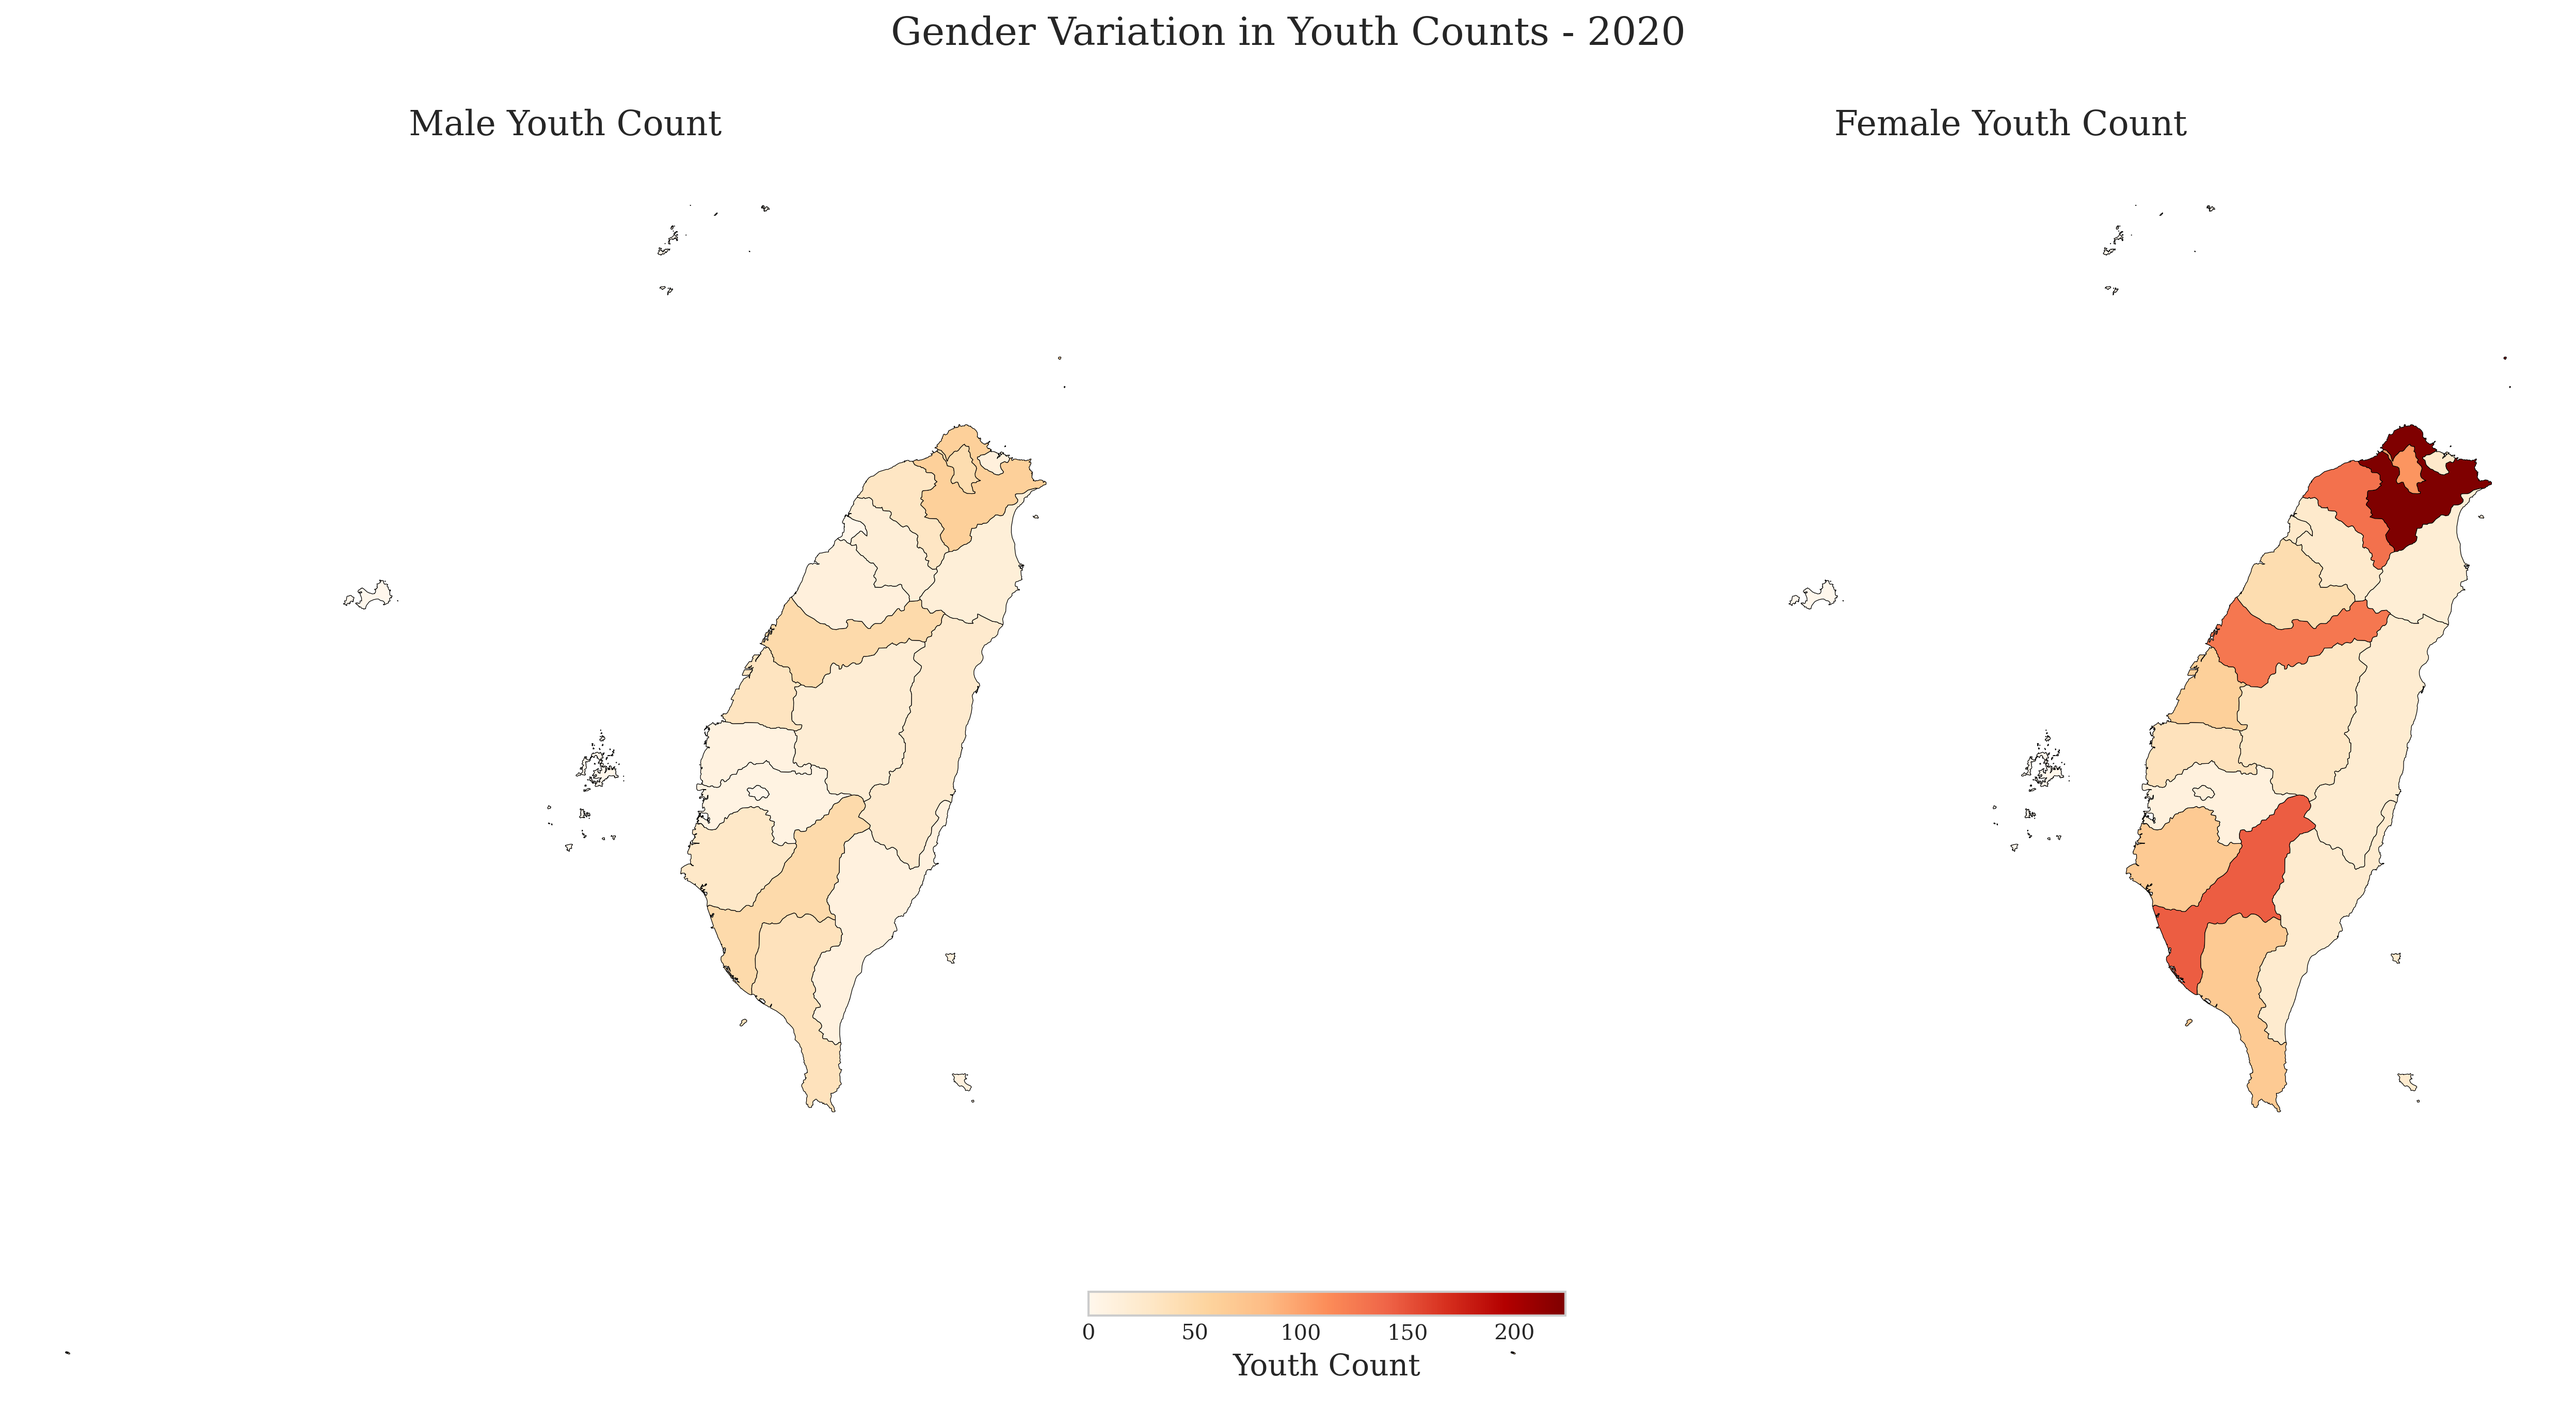
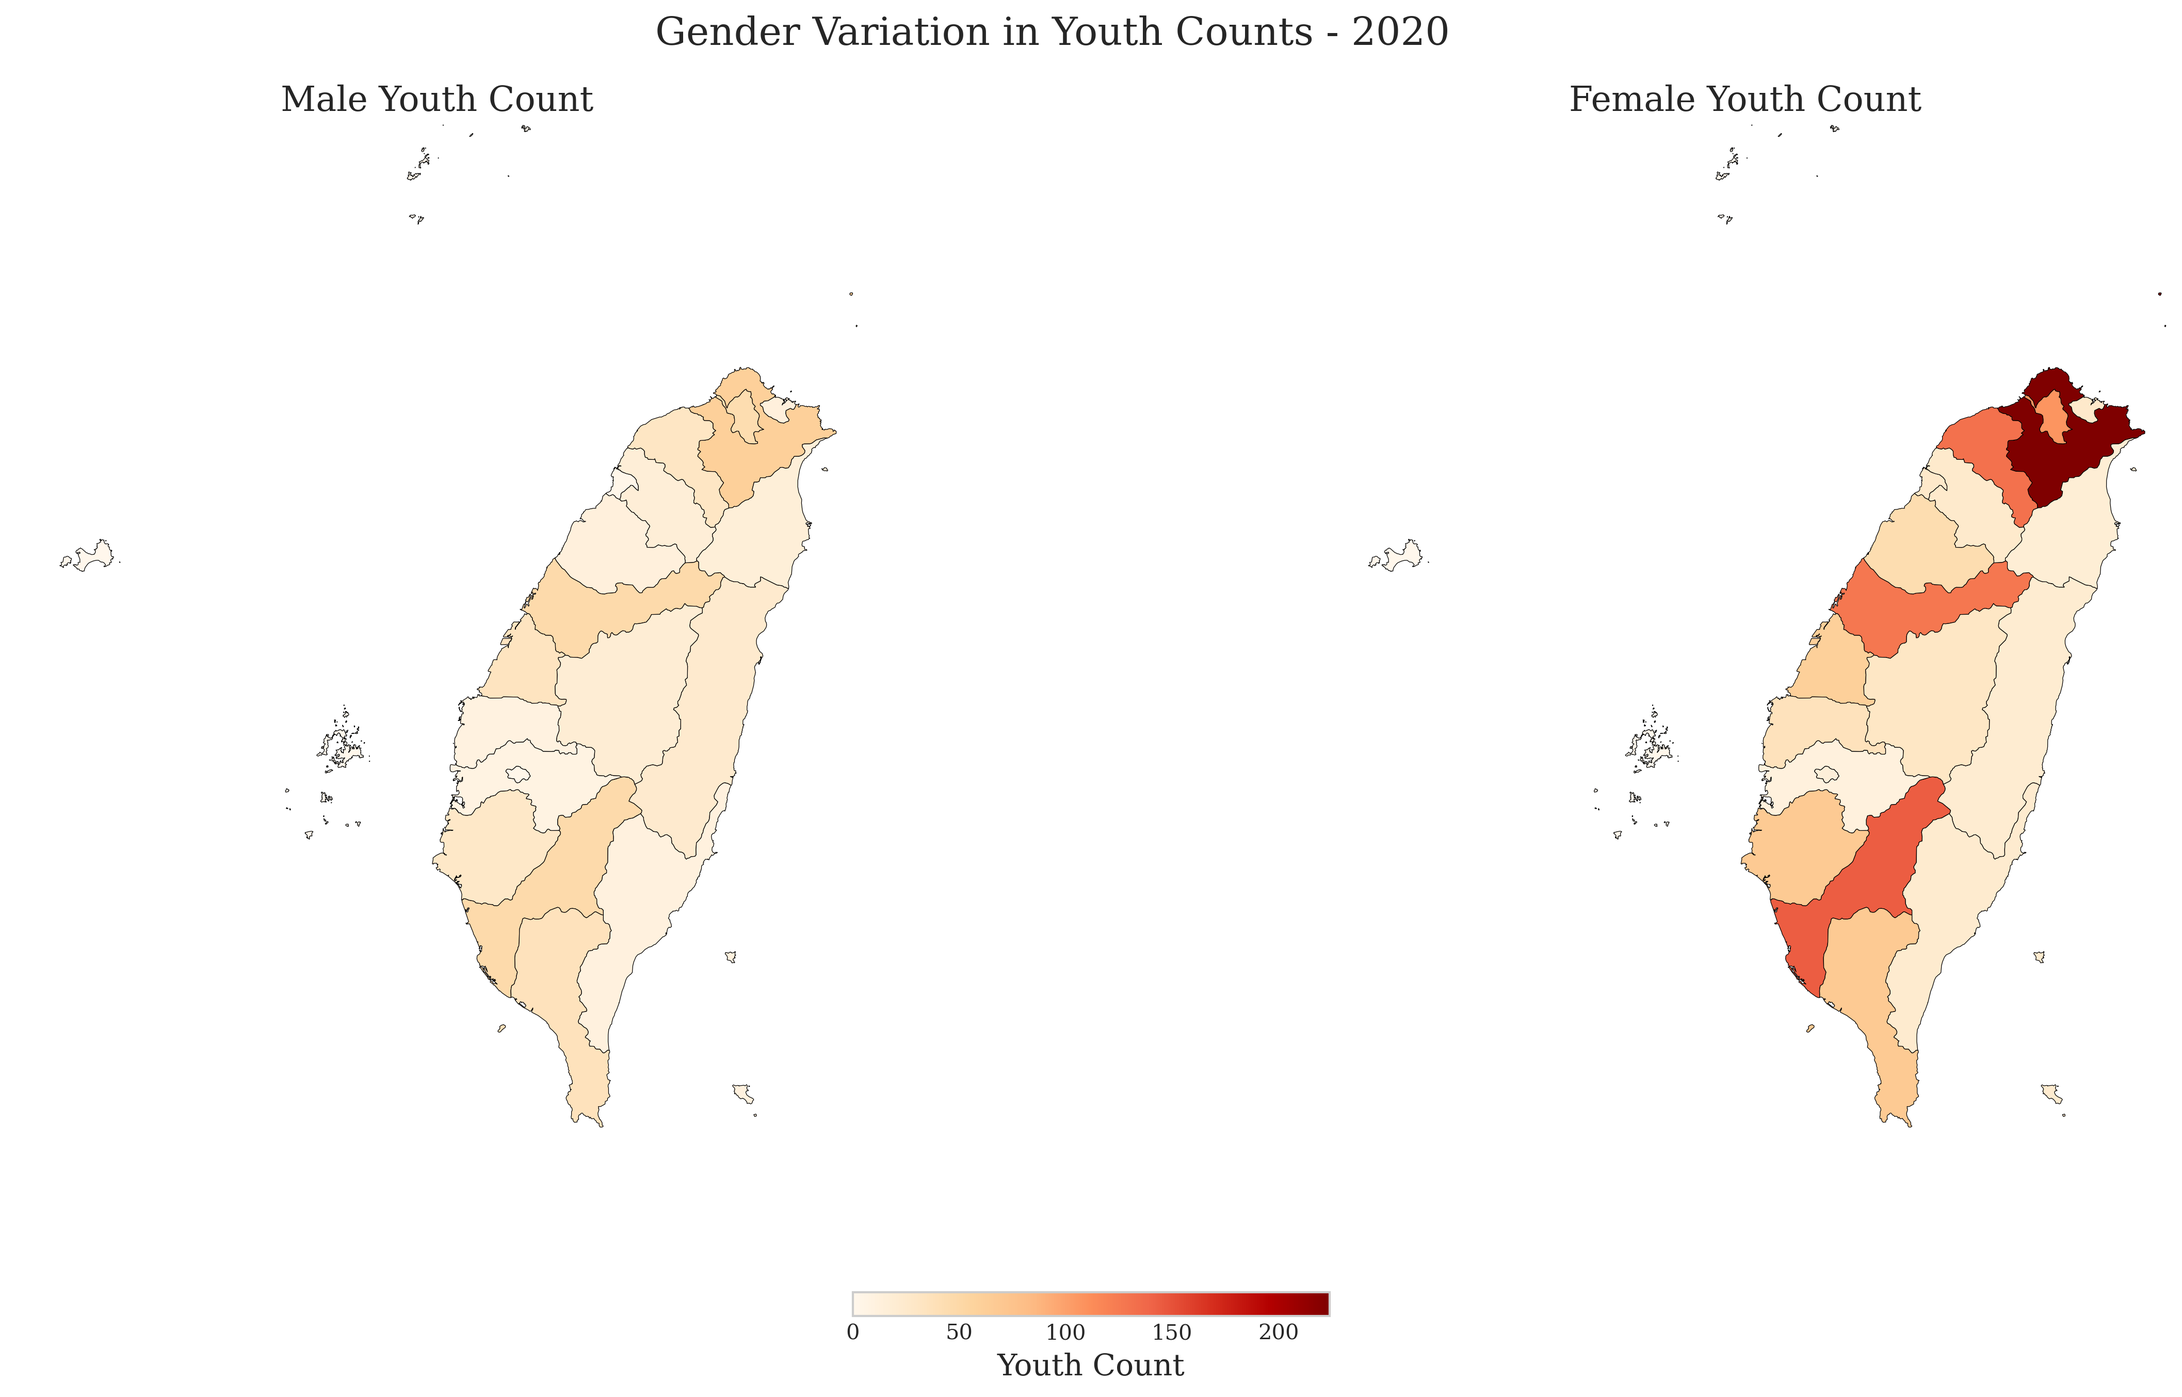
upf

diff --git a/maps2.py b/maps2.py
@@ -217,7 +217,7 @@ def create_regional_map(melted_data, taiwan_map, year):
     buffer_x = (maxx - minx) * 0.001
     buffer_y = (maxy - miny) * 0.001
     ax.set_xlim(118 - buffer_x, maxx + buffer_x)
-    ax.set_ylim(miny - buffer_y, maxy + buffer_y)
+    ax.set_ylim(miny+1 - buffer_y, maxy + buffer_y)
     # Plot the map with improved aesthetics
     merged.plot(
         column='Count',
@@ -289,6 +289,10 @@ def create_gender_variation_map(melted_data, taiwan_map, year):
     )
     axes[0].set_title('Male Youth Count', fontsize=16)
     axes[0].axis('off')
+    minx, miny, maxx, maxy = taiwan_map.total_bounds
+    print(minx, miny, maxx, maxy)
+    buffer_x = (maxx - minx) * 0.001
+    buffer_y = (maxy - miny) * 0.001
     
     # Plot Female map
     female_data = merged[merged['Gender'] == 'Female']
@@ -303,7 +307,9 @@ def create_gender_variation_map(melted_data, taiwan_map, year):
     )
     axes[1].set_title('Female Youth Count', fontsize=16)
     axes[1].axis('off')
-    
+    for ax in axes:
+        ax.set_xlim(118 - buffer_x, maxx + buffer_x)
+        ax.set_ylim(miny+1 - buffer_y, maxy + buffer_y)
     # Add a unified colorbar below the subplots
     sm = plt.cm.ScalarMappable(cmap=cmap, norm=norm)
     sm._A = []
